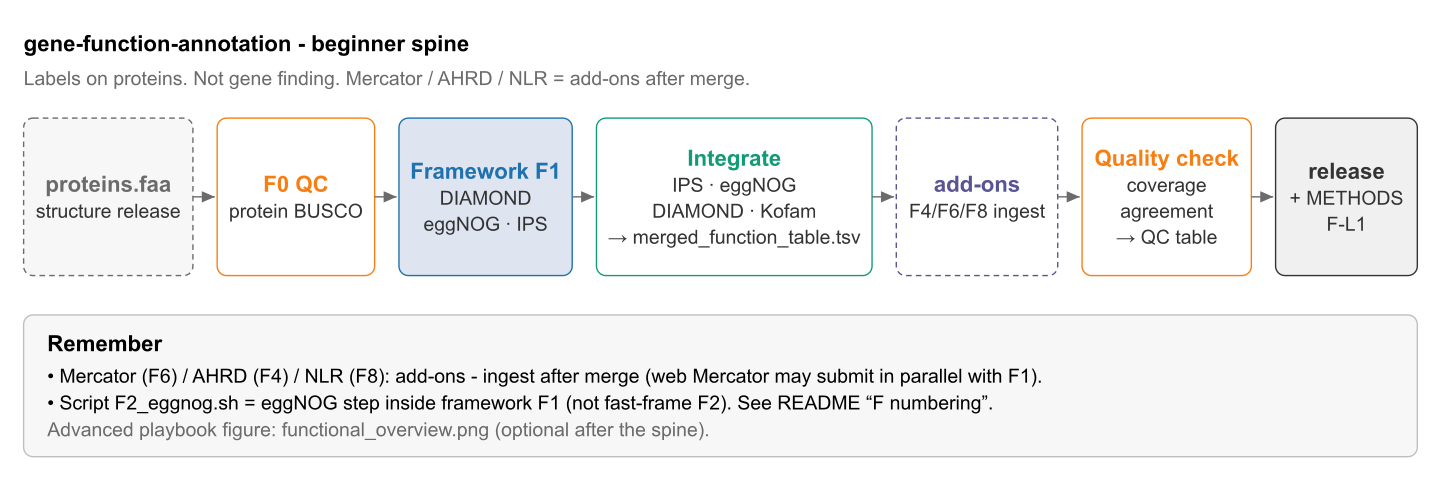
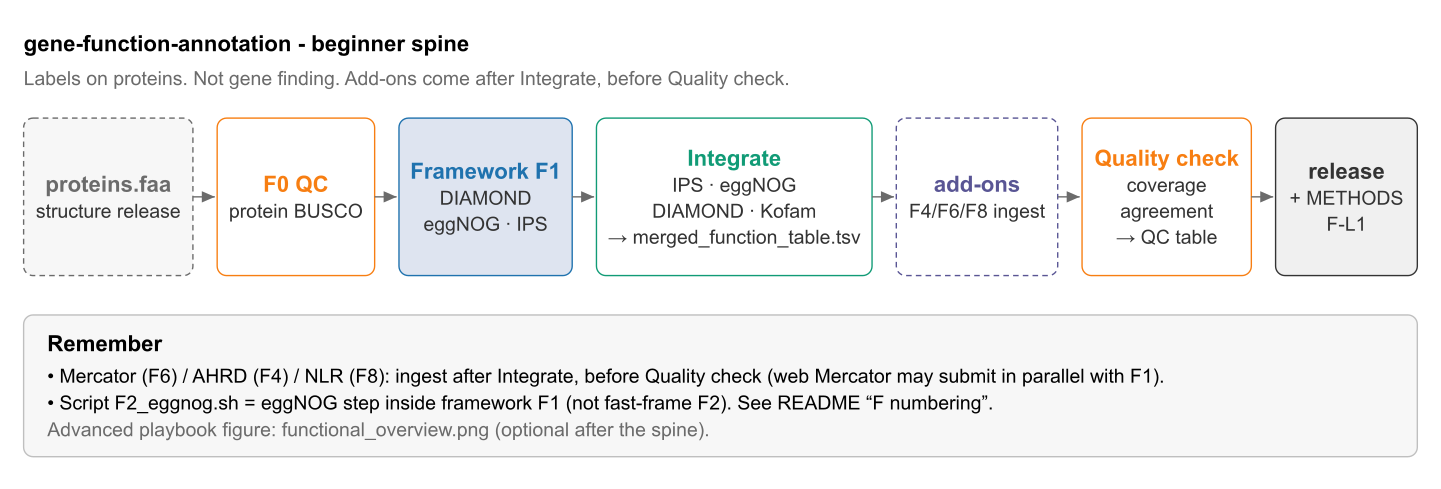
docs(figures): spine says add-ons come after Integrate, before Quality check

Changed region(s): [[0.2811, 0.7362, 0.8119, 0.7975], [0.2186, 0.1227, 0.5621, 0.184]]

diff --git a/docs/figures/src/functional_spine.py b/docs/figures/src/functional_spine.py
@@ -53,7 +53,7 @@ def box(x, y, w, h, title, lines, stroke, fill='#FFFFFF', dash=False, tcolor=Non
 # ---------------------------------------------------------------- layout
 M = 3
 text(M, 6.5, 'gene-function-annotation - beginner spine', 8, True, '#000000', 'start')
-text(M, 10.8, 'Labels on proteins. Not gene finding. Mercator / AHRD / NLR = add-ons after merge.',
+text(M, 10.8, 'Labels on proteins. Not gene finding. Add-ons come after Integrate, before Quality check.',
      7, False, GREY, 'start')
 
 top, bh = 15, 20
@@ -79,7 +79,7 @@ for w, t, lines, st, fill, dash, tc in spec:
 cy, ch = top + bh + 5, 18
 card = rect(M, cy, W - 2*M, ch, '#BFBFBF', PAPER)
 text(M + 3, cy + 4.6, 'Remember', 8, True, '#000000', 'start', inside=card)
-text(M + 3, cy + 8.6, '• Mercator (F6) / AHRD (F4) / NLR (F8): add-ons - ingest after merge '
+text(M + 3, cy + 8.6, '• Mercator (F6) / AHRD (F4) / NLR (F8): ingest after Integrate, before Quality check '
      '(web Mercator may submit in parallel with F1).', 7, False, '#000000', 'start', inside=card)
 text(M + 3, cy + 12.0, '• Script F2_eggnog.sh = eggNOG step inside framework F1 (not fast-frame F2). '
      'See README “F numbering”.', 7, False, '#000000', 'start', inside=card)
